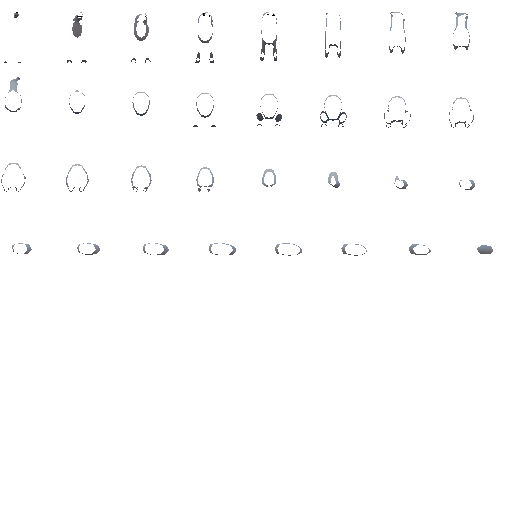
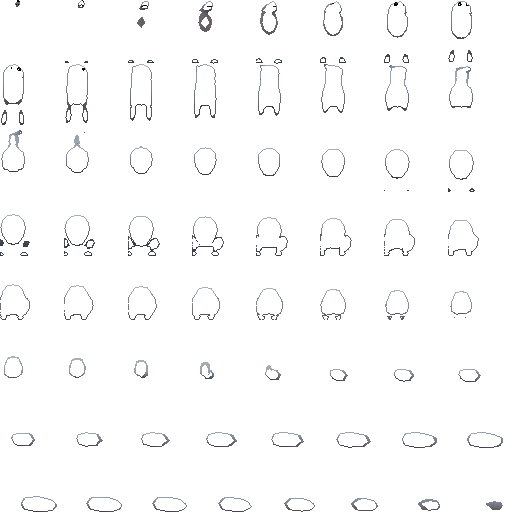
Bruteforce raymarch shader, cleanup
- Changed to non-uniform scale when rasterizing for better texture usage & cleaner render math
- Support for voxelising multi-submesh meshes
- Raymarch shader is now correct, renders as alpha-test, has optional sample dithering for use with TAA

diff --git a/Assets/Voxelising/Common/Voxeliser.cs b/Assets/Voxelising/Common/Voxeliser.cs
@@ -82,28 +82,31 @@ namespace VoxelChallenge
             var viewMatrix = new Matrix4x4();
             var b = mesh.bounds;
             var inverseMaxDimension = 1f / Mathf.Max(b.size.x, b.size.y, b.size.z);
-            viewMatrix.SetTRS(-b.min * inverseMaxDimension, Quaternion.identity, Vector3.one * inverseMaxDimension);
-
+            var inverseSize = new Vector3(1f / b.size.x, 1f / b.size.y, 1f / b.size.z);
+            viewMatrix.SetTRS(-b.min * inverseMaxDimension, Quaternion.identity, inverseSize);
+            
             int metaRes = (int)Mathf.Sqrt(resolution);
+            var localMaterial = new Material(material);
+            localMaterial.SetInt("_VX_Res", resolution);
+            localMaterial.SetInt("_VX_MetaRes", metaRes);
 
             var commands = new CommandBuffer();
             commands.ClearRandomWriteTargets();
             commands.SetGlobalBuffer("_VoxelUAV", voxelUAVbuffer);
-            commands.SetGlobalInt("_Res", resolution);
-            commands.SetGlobalInt("_MetaRes", metaRes);
             commands.SetRandomWriteTarget(2, voxelUAVbuffer);
             commands.SetRenderTarget(viewRT);
-            commands.ClearRenderTarget(true, true, Color.black);
-            commands.DisableScissorRect();
             commands.SetViewMatrix(viewMatrix);
             commands.SetProjectionMatrix(Matrix4x4.identity);
-            commands.DrawMesh(mesh, Matrix4x4.identity, material);
-            commands.EnableShaderKeyword("VX_SWIZZLE_LEFT");
-            commands.DrawMesh(mesh, Matrix4x4.identity, material);
-            commands.DisableShaderKeyword("VX_SWIZZLE_LEFT");
-            commands.EnableShaderKeyword("VX_SWIZZLE_TOP");
-            commands.DrawMesh(mesh, Matrix4x4.identity, material);
-            commands.DisableShaderKeyword("VX_SWIZZLE_TOP");
+            for (int submesh = 0; submesh < mesh.subMeshCount; submesh++)
+            {
+                commands.DrawMesh(mesh, Matrix4x4.identity, localMaterial, submesh);
+                commands.EnableShaderKeyword("VX_SWIZZLE_LEFT");
+                commands.DrawMesh(mesh, Matrix4x4.identity, localMaterial, submesh);
+                commands.DisableShaderKeyword("VX_SWIZZLE_LEFT");
+                commands.EnableShaderKeyword("VX_SWIZZLE_TOP");
+                commands.DrawMesh(mesh, Matrix4x4.identity, localMaterial, submesh);
+                commands.DisableShaderKeyword("VX_SWIZZLE_TOP");
+            }
             Graphics.ExecuteCommandBuffer(commands);
 
             voxelUAVbuffer.GetData(localVoxelsBuffer);

diff --git a/Assets/Voxelising/Common/VoxelRenderer.cs b/Assets/Voxelising/Common/VoxelRenderer.cs
@@ -1,7 +1,4 @@
 using UnityEngine;
-using UnityEngine.Rendering;
-using UnityEditor;
-using Unity.Mathematics;
 
 namespace VoxelChallenge
 {
@@ -17,6 +14,16 @@ namespace VoxelChallenge
         {
             voxelData = Voxeliser.Voxelise(voxelAsset);
             localMaterial = new Material(material);
+            if (voxelData != null)
+            {
+                localMaterial.SetVector("_VX_BoundsMin", voxelData.bounds.min);
+                localMaterial.SetVector("_VX_BoundsMax", voxelData.bounds.max);
+                var size = voxelData.bounds.size;
+                localMaterial.SetVector("_VX_BoundsSize", size);
+                float maxDimension = Mathf.Max(size.x, size.y, size.z);
+                localMaterial.SetFloat("_VX_BoundsMaxDimension", maxDimension);
+                localMaterial.SetVector("_VX_BoundsProportions", size/ maxDimension);
+            }
         }
 
         private void OnDisable()
@@ -34,7 +41,8 @@ namespace VoxelChallenge
             {
                 return;
             }
-            Graphics.DrawMesh(voxelData.boundsMesh, transform.localToWorldMatrix, material, gameObject.layer);
+            localMaterial.SetVector("_VX_NoiseFrameOffset", new Vector2(Random.value, Random.value));
+            Graphics.DrawMesh(voxelData.boundsMesh, transform.localToWorldMatrix, localMaterial, gameObject.layer);
         }
 
 
@@ -54,7 +62,7 @@ namespace VoxelChallenge
                 Gizmos.DrawWireSphere(transform.position, 0.5f);
                 return;
             }
-            Gizmos.DrawWireMesh(voxelData.boundsMesh);
+            Gizmos.DrawWireMesh(voxelData.boundsMesh, transform.position, transform.rotation, transform.lossyScale);
         }
 
         private void OnDrawGizmos()
